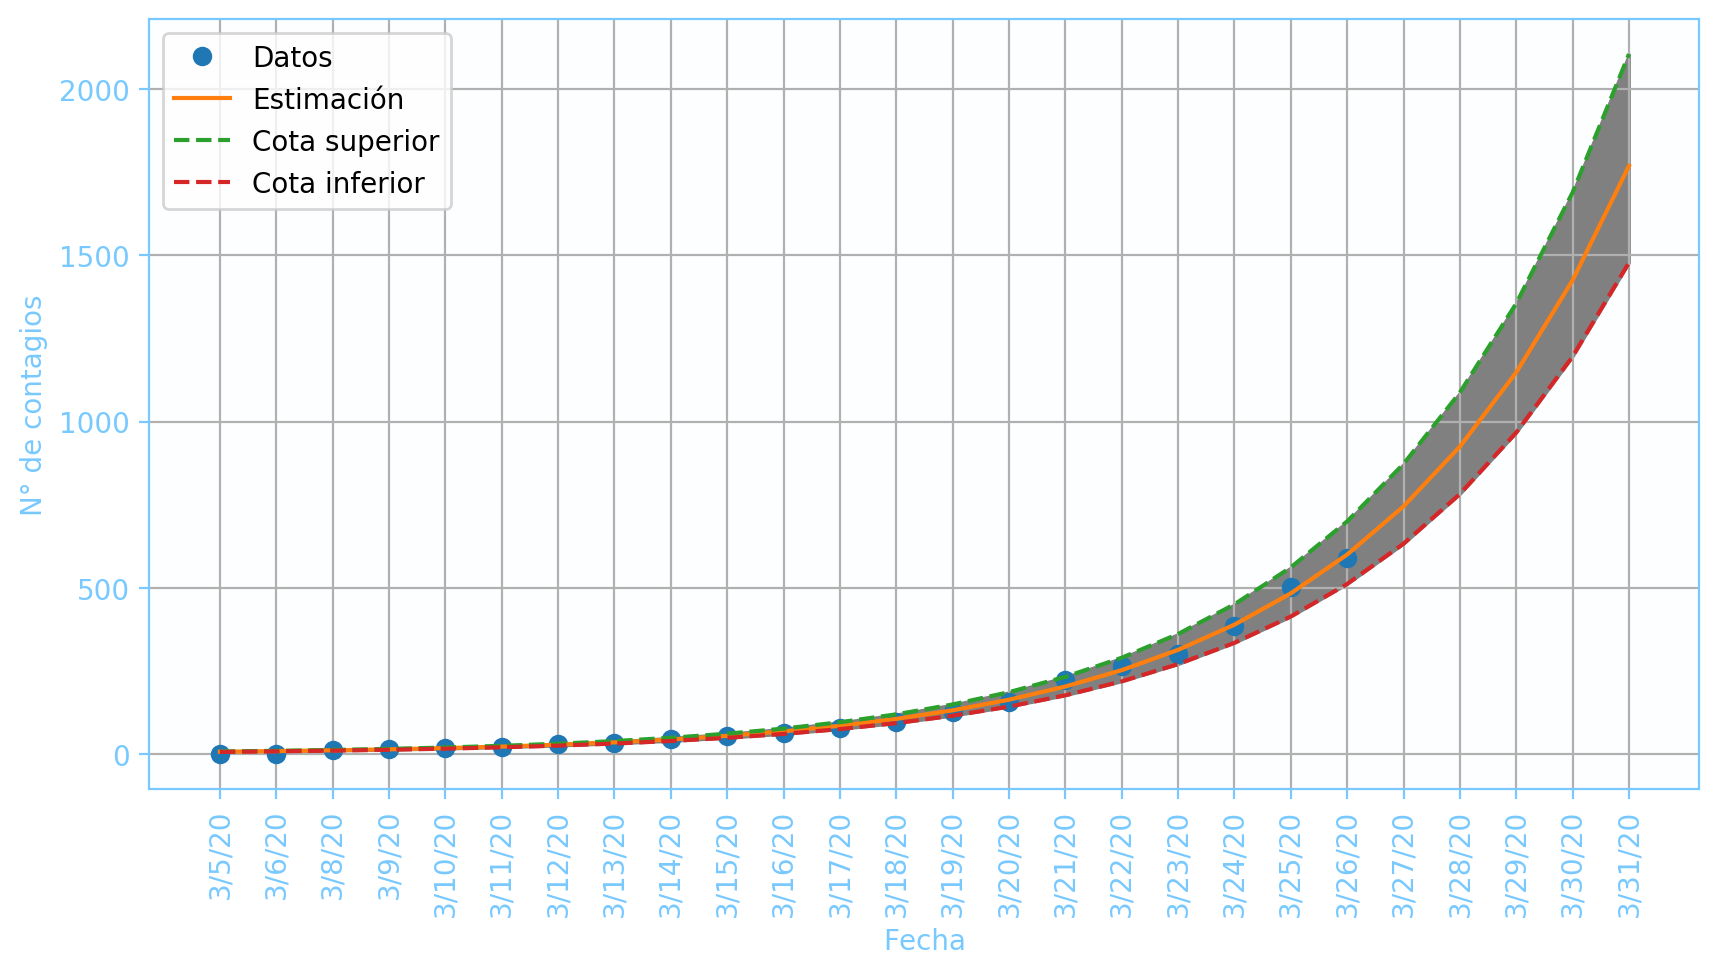
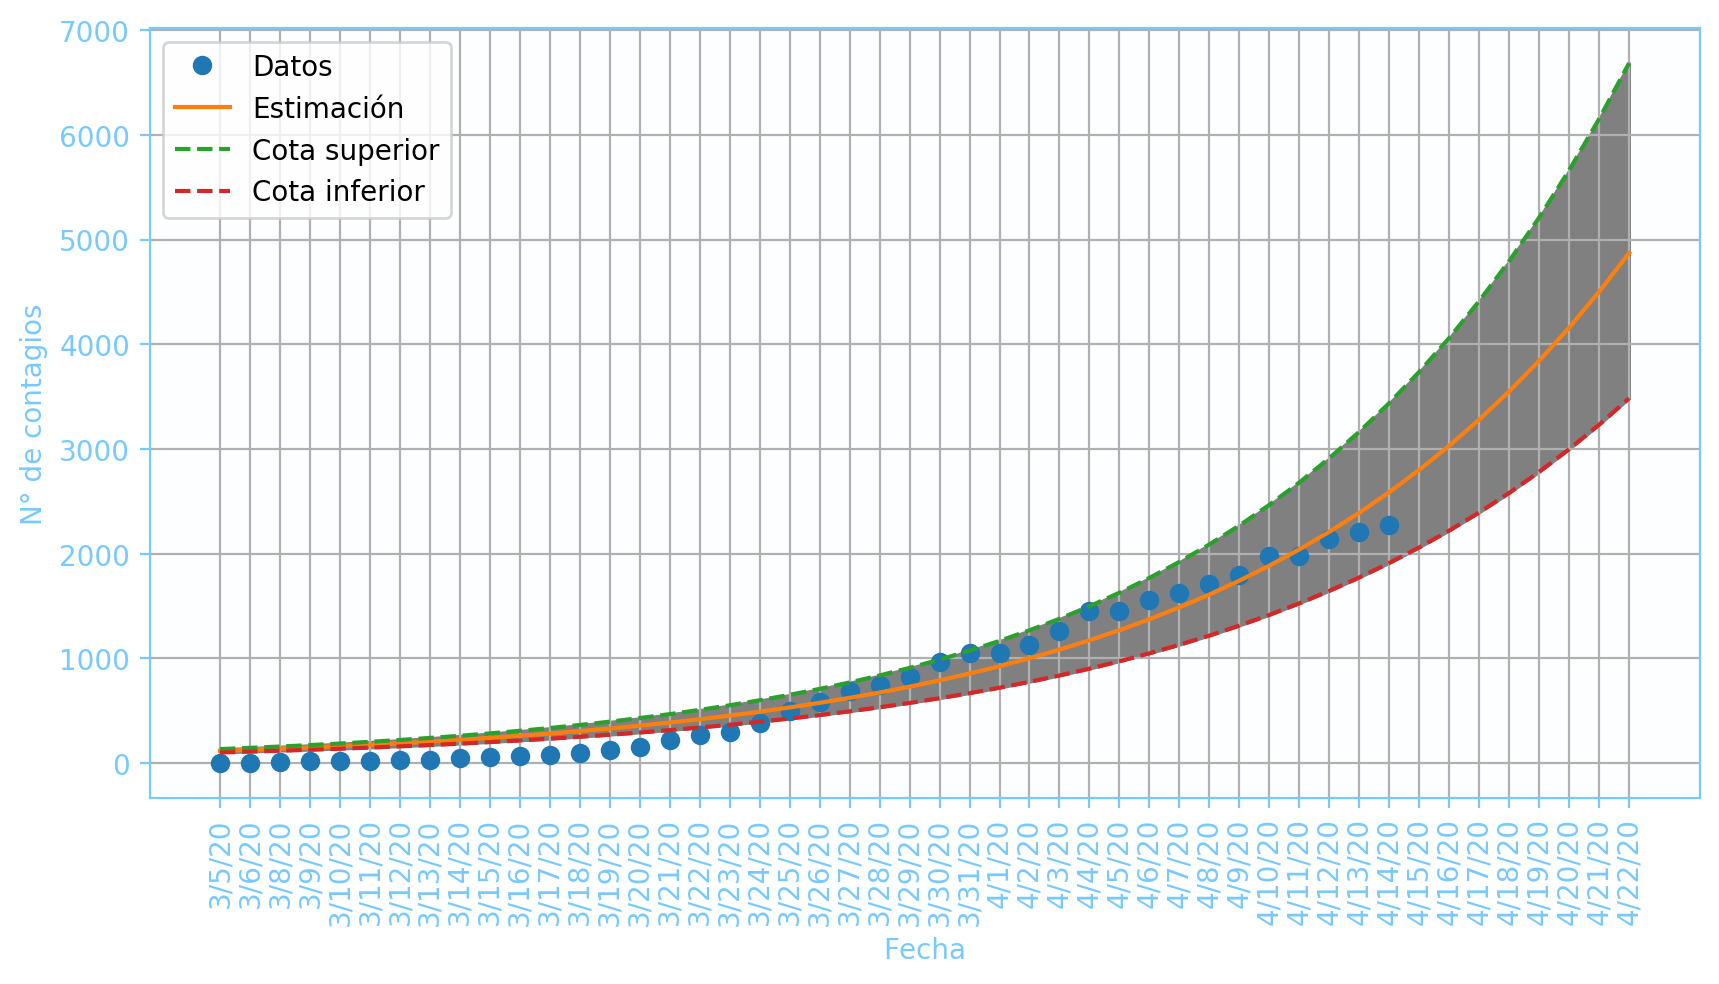
Update 16/4

Changed region(s): [[0.0, 0.0, 0.9866, 0.9538], [0.0308, 0.5538, 0.0925, 0.6154], [0.0308, 0.6462, 0.0925, 0.6769]]

diff --git a/dashboard_loader.py b/dashboard_loader.py
@@ -52,6 +52,29 @@ data = pd.Series(
         '3/29/20',
         '3/30/20',
         '3/31/20',
+        '4/1/20',
+        '4/2/20',
+        '4/3/20',
+        '4/4/20',
+        '4/5/20',
+        '4/6/20',
+        '4/7/20',
+        '4/8/20',
+        '4/9/20',
+        '4/10/20',
+        '4/11/20',
+        '4/12/20',
+        '4/13/20',
+        '4/14/20',
+        '4/15/20',
+        '4/16/20',
+        '4/17/20',
+        '4/18/20',
+        '4/19/20',
+        '4/20/20',
+        '4/21/20',
+        '4/22/20',
+
 	]
 )
 
@@ -112,6 +135,25 @@ cases = np.array(
         385,
         502,
         589,
+        690,
+        745,
+        820,
+        966,
+        1054,
+        1054,
+        1133,
+        1265,
+        1451,
+        1451,
+        1554,
+        1628,
+        1715,
+        1795,
+        1975,
+        1975,
+        2142,
+        2208,
+        2277,
     ]
 )
 end = len(cases)
@@ -276,28 +318,28 @@ with open('Dashboard.html') as html_file:
 
 	new_tag = soup.new_tag("p")
 	new_tag['id'] = "Stats"
-	texto = "El último dato que tenemos es " + str(round(cases[today_index-1]))+ " del día de ayer"
+	texto = "El último dato que tenemos es " + str(round(cases[-1]))+ " del día de ayer"
 	new_tag.string = texto
 	for tag in soup.find_all(id="Stats"):
 		tag.replace_with(new_tag)
 
 	new_tag = soup.new_tag("p")
 	new_tag['id'] = "Pred0"
-	texto = "Para hoy se estiman "+str(round(fit[today_index]))+" casos, con una cota superior de "+str(round(fit_sup[today_index]))+" y una cota inferior de "+str(round(fit_inf[today_index]))
+	texto = "Para hoy se estiman "+str(round(fit[-10]))+" casos, con una cota superior de "+str(round(fit_sup[-10]))+" y una cota inferior de "+str(round(fit_inf[-10]))
 	new_tag.string = texto
 	for tag in soup.find_all(id="Pred0"):
 		tag.replace_with(new_tag)
 
 	new_tag = soup.new_tag("p")
 	new_tag['id'] = "Pred1"
-	texto = "Para mañana se estiman "+str(round(fit[today_index+1]))+" casos, con una cota superior de "+str(round(fit_sup[today_index+1]))+" y una cota inferior de "+str(round(fit_inf[today_index+1]))
+	texto = "Para mañana se estiman "+str(round(fit[-9]))+" casos, con una cota superior de "+str(round(fit_sup[-9]))+" y una cota inferior de "+str(round(fit_inf[-9]))
 	new_tag.string = texto
 	for tag in soup.find_all(id="Pred1"):
 		tag.replace_with(new_tag)
 
 	new_tag = soup.new_tag("p")
 	new_tag['id'] = "Pred2"
-	texto = "Para pasado mañana se estiman "+str(round(fit[today_index+2]))+" casos, con una cota superior de "+str(round(fit_sup[today_index+2]))+" y una cota inferior de "+str(round(fit_inf[today_index+2]))
+	texto = "Para pasado mañana se estiman "+str(round(fit[-8]))+" casos, con una cota superior de "+str(round(fit_sup[-8]))+" y una cota inferior de "+str(round(fit_inf[-8]))
 	new_tag.string = texto
 	for tag in soup.find_all(id="Pred2"):
 		tag.replace_with(new_tag)
